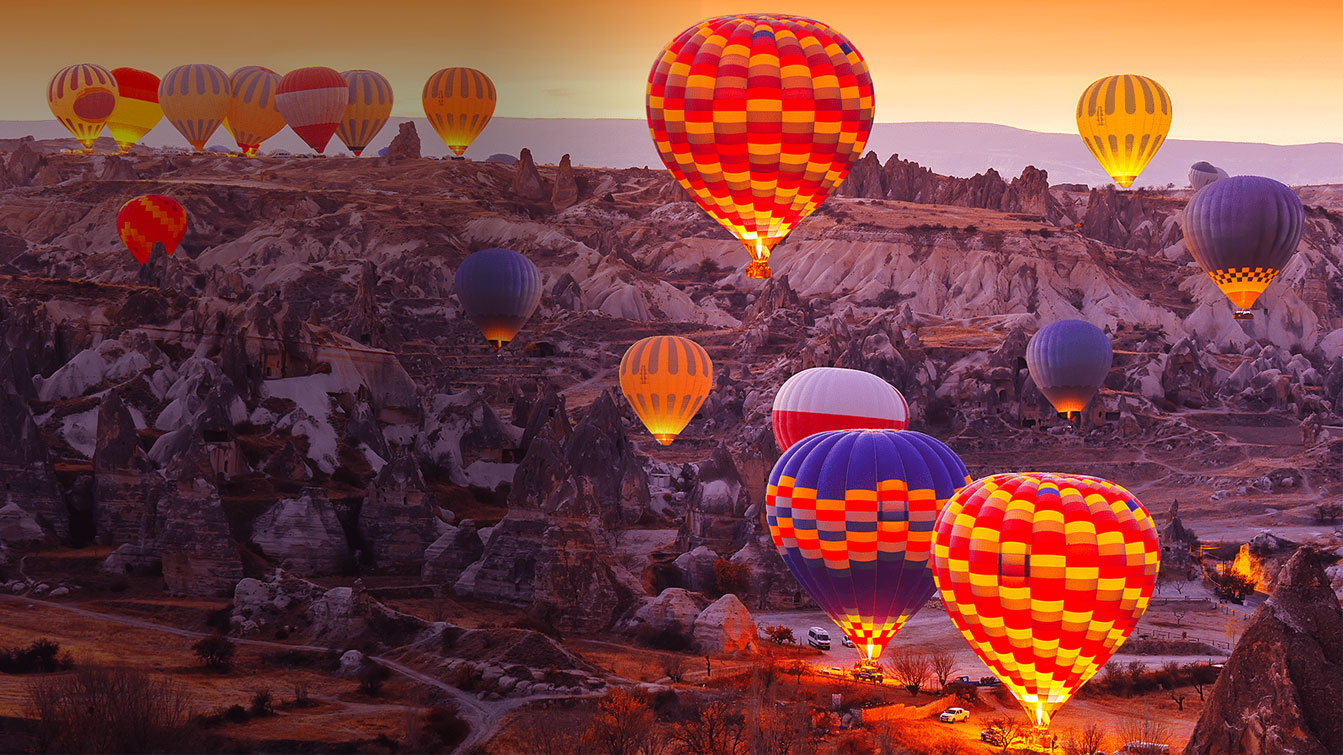
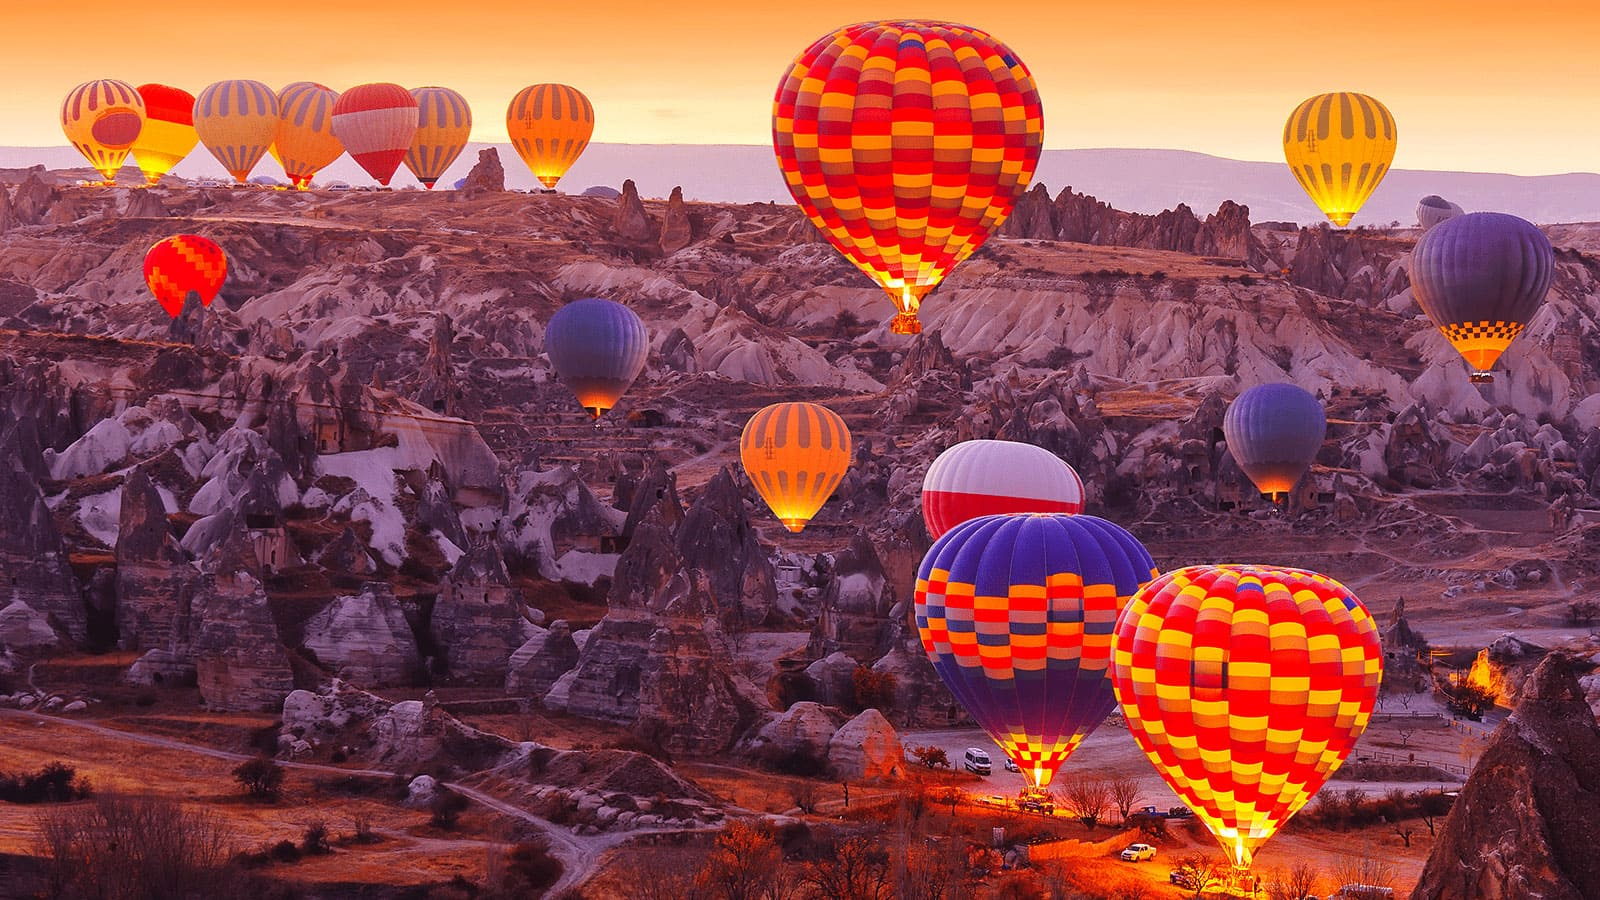
inserta Mensaje aquí

diff --git a/index.html b/index.html
@@ -105,7 +105,7 @@
                 <div class="image-contentv">
                  <div class="yuju">
 
-                   <img class="img-fluid img-sl-cont" src="img/bella.jpg">
+                   <img class="img-fluid img-sl-cont" src="img/cap1.jpg">
                    <div class="yoli"></div>
                  </div>
                 </div>
@@ -123,7 +123,7 @@
                 <div class="image-contentv">
                  <div class="yuju">
 
-                   <img class="img-fluid img-sl-cont" src="img/bella.jpg">
+                   <img class="img-fluid img-sl-cont" src="img/cap1.jpg">
                    <div class="yoli"></div>
                  </div>
                 </div>
@@ -141,7 +141,7 @@
                 <div class="image-contentv">
                  <div class="yuju">
 
-                   <img class="img-fluid img-sl-cont" src="img/bella.jpg">
+                   <img class="img-fluid img-sl-cont" src="img/cap1.jpg">
                    <div class="yoli"></div>
                  </div>
                 </div>
@@ -160,7 +160,7 @@
                 <div class="image-contentv">
                  <div class="yuju">
 
-                   <img class="img-fluid img-sl-cont" src="img/bella.jpg">
+                   <img class="img-fluid img-sl-cont" src="img/cap1.jpg">
                    <div class="yoli"></div>
                  </div>
                 </div>
@@ -179,7 +179,7 @@
                 <div class="image-contentv">
                  <div class="yuju">
 
-                   <img class="img-fluid img-sl-cont" src="img/bella.jpg">
+                   <img class="img-fluid img-sl-cont" src="img/cap1.jpg">
                    <div class="yoli"></div>
                  </div>
                 </div>
@@ -211,13 +211,14 @@
   <div class="row p-5">
     <div class="col-lg-9">
       <div class="inf-edit-booking">
+        <h2>OFRECEMOS LOS MEJORES PAQUETES TURISTICOS</h2>
         <p>Reserve con nosotros servicios de viaje nacionales e internacionales, reserva
           <br>
           y compra boletos aéreos, seguros de viaje, hospedaje internacional y nacional
           <br>
           paquetes turísticos vacacionales personalizados, alquile autos.</p>
-          <br>
         <p>Brindamos asistencia las 24 horas, los 7 días de la semana a nuestros clientes.</p>
+        <p class="thank">¡Gracias!</p>
       </div>
     </div>
     <div class="col-lg-3">

diff --git a/css/styles.css b/css/styles.css
@@ -48,6 +48,11 @@ body{
 .nav-header-top a>img{
     width: 110px;
 }
+@media screen and (max-width: 768px){
+    .nav-header-top a>img{
+        width: 172px;
+    }
+}
 /** -------------- CSS Cuerpo General -------------- */
 main{
     margin-top: 92px; 
@@ -324,9 +329,11 @@ main{
     .slider-containerv{
     max-width: none;
     border-radius: 0px;
+    padding: 30px 0 40px 0;
     }
     .slider-contentv{
         margin: 0px 12px;
+        overflow: visible;
     }
     .cardx{
         border-radius: 0px;
@@ -368,9 +375,10 @@ main{
     height: 100%;
     background-image: url(../img/turquia2.jpg);
     background-repeat: no-repeat;
-    background-position: 0 100%;
-    background-size: cover;
     background-position: center center;
+    background-size: cover;
+    -moz-background-size: cover;
+    -o-background-size: cover;
 }
 .list-booking-home > .container{
     position: relative;
@@ -388,6 +396,13 @@ main{
 .inf-edit-booking{
     color: #f8f9fa;
     margin-top: 64px;
+}
+.inf-edit-booking h2{
+    font-size: 1.4rem;
+    margin-bottom: 10px;
+}
+.inf-edit-booking .thank{
+    font-size: 1.3rem;
 }
 .sello{
     padding: 5px;
@@ -422,6 +437,13 @@ main{
     .drsx{
         left: 90px;
         display: none
+    }
+    .inf-edit-booking{
+        margin: 0;
+        text-align: center;
+    }
+    .sello{
+        margin: 3% auto 0;
     }
 }
 /** -------------- CSS Comment General -------------- */
@@ -494,7 +516,6 @@ main{
     }
     .dbck-movil{
         text-align: center;
-        margin: 20px auto; 
     }
     .dbck-movil h4{
         font-size: 18px;
@@ -511,6 +532,9 @@ main{
     .comment-home > .cardv-group > .col > .card{
         border-radius: 0px;
         box-shadow: 0 20px 20px -14px rgb(42 61 95 / 40%), 0 0 10px rgb(45 53 66 / 1%);
+    }
+    .image-contentv .img-sl-cont{
+        border-radius: 0px;
     }
 }
 /** -------------- CSS Footer General -------------- */
@@ -571,6 +595,13 @@ main{
 .inf-ilymar-travel p{
     margin: 0;
 }
-
+@media screen and (max-width: 768px){ 
+    .inf-footer .footer-links{
+        text-align: center;
+    }   
+    .inf-footer .footer-links ul>li{
+        text-align: center;
+    }
+}
 /*
 }*/
